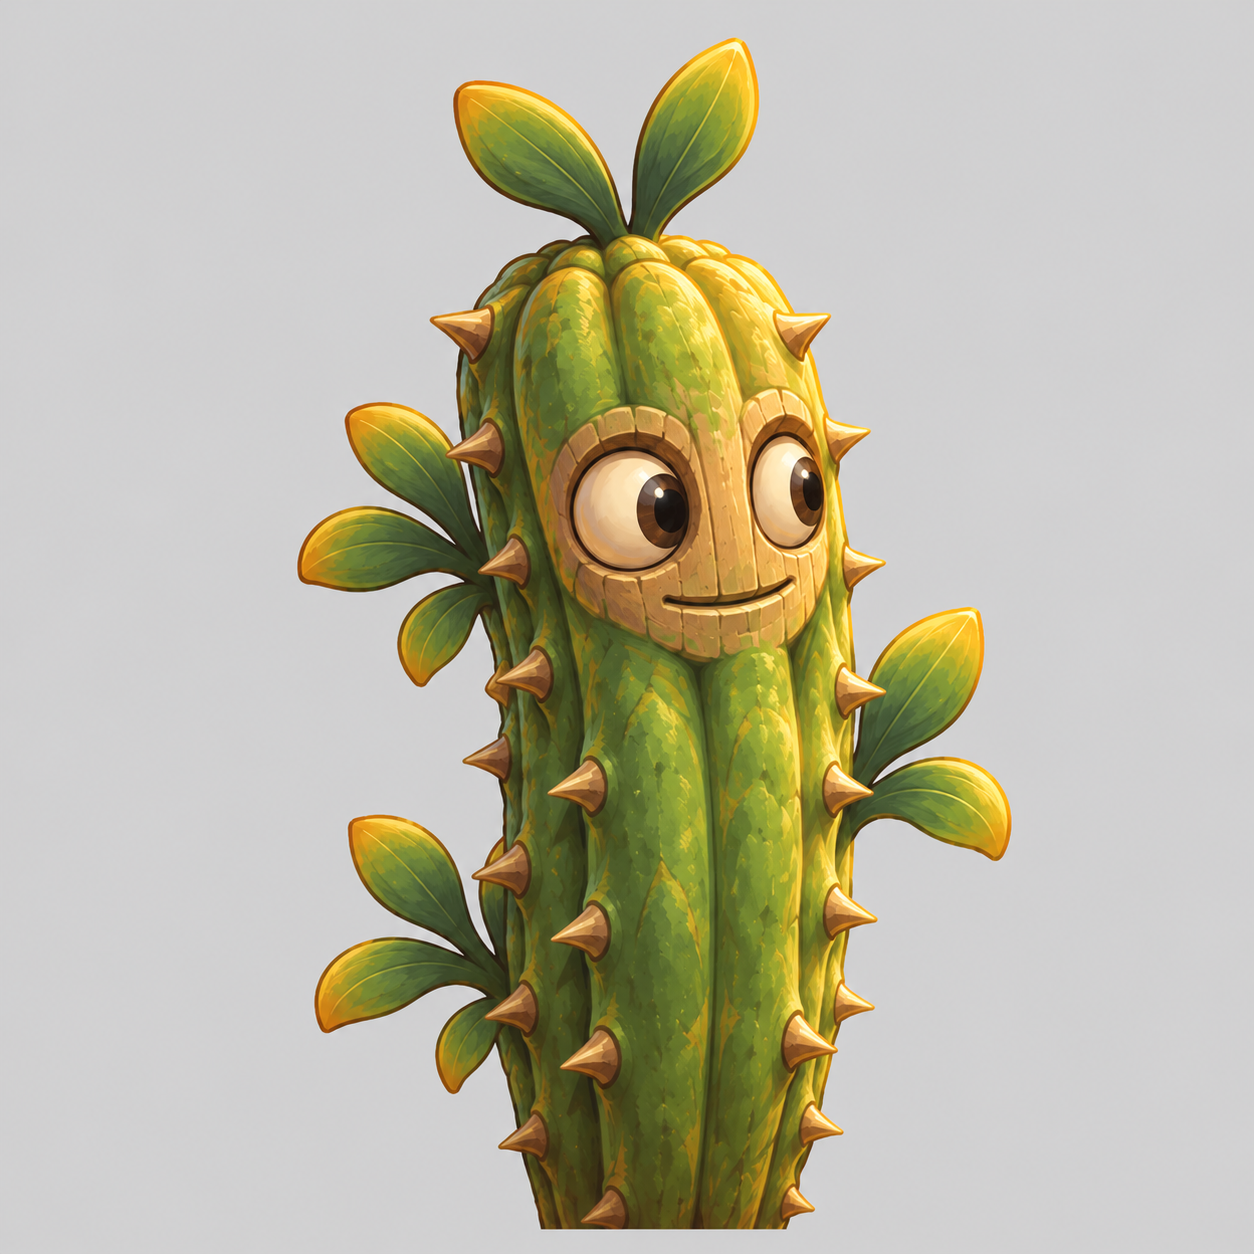
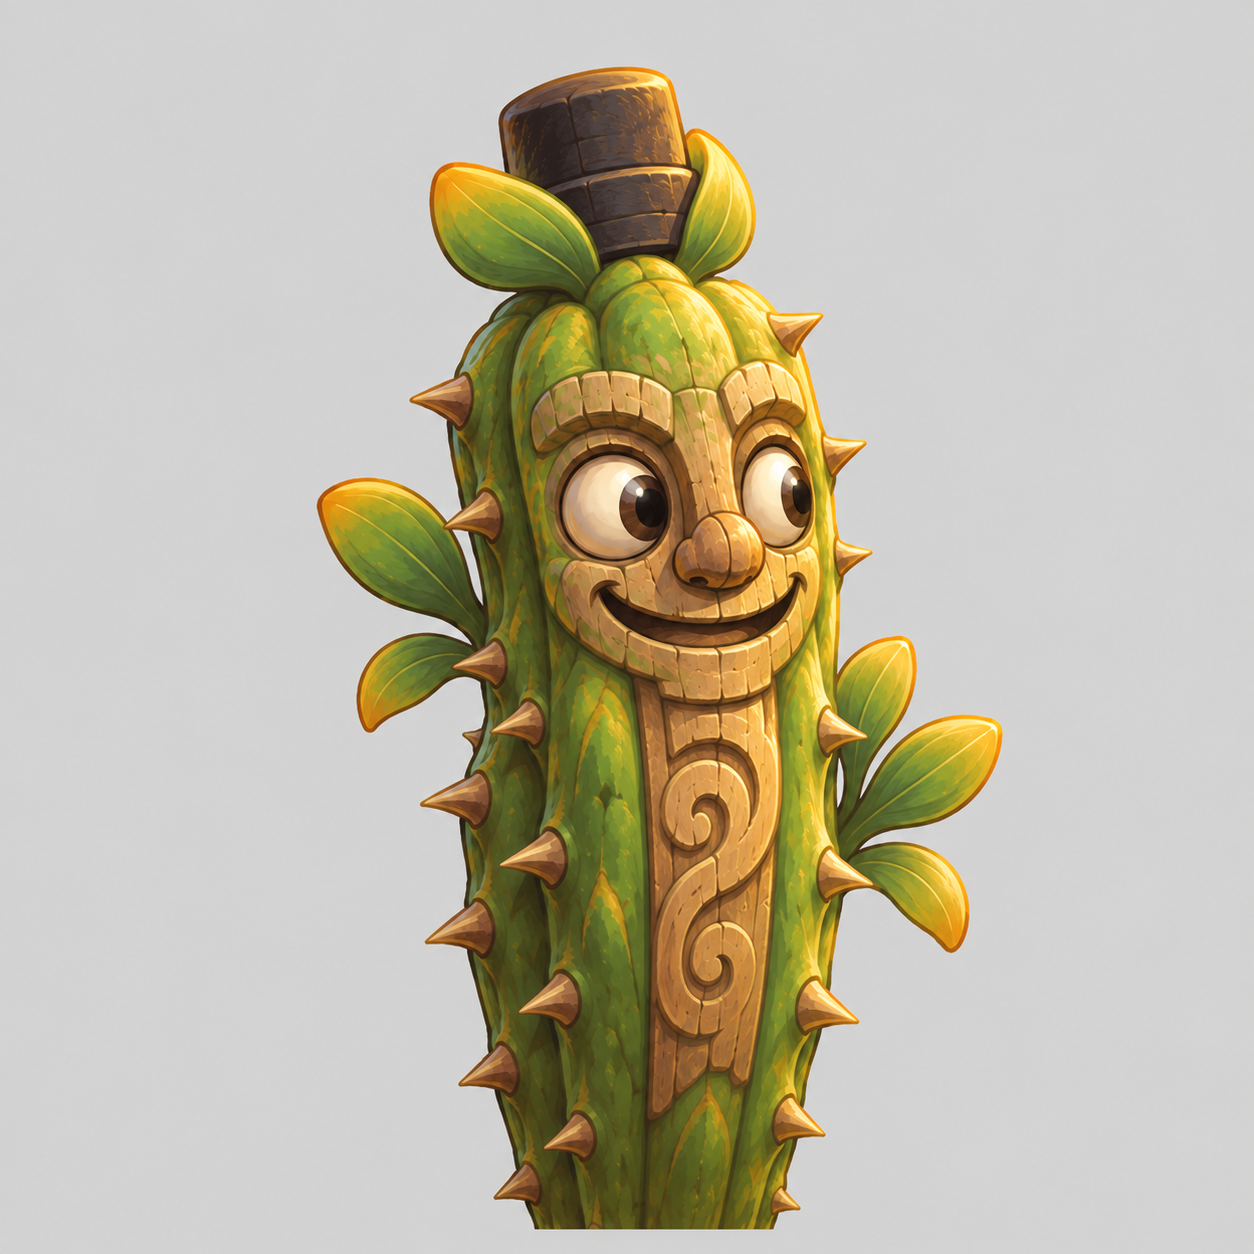
번개 창 안 듦 풀 → 대지(전기가 땅으로 빠짐) · 물방울 아이콘 위 뾰족 아래 둥글게 · 닌자바인 · 장승캑터 자람 셋째 판(복면 남김 + 머리띠 · 갓 싹 + 띠 반쯤) (사용자 '풀과 번개는 중립 · 번개는 땅한테 약함' · '물방울 젖음 아이콘이 똥 모양' · '너가 지적한 부분이 문제야')

Changed region(s): [[0.2177, 0.0311, 0.8086, 0.9952]]

diff --git a/v2/src/battle/matchup.js b/v2/src/battle/matchup.js
@@ -13,7 +13,7 @@ export const WEAPON_TYPES = {
   hammer: { name: '망치', strong: ['ice', 'earth'], resist: ['water'] },          // 얼음을 깸 · 바위를 부숨 / 쳐도 갈라졌다 다시 붙음
   gun: { name: '총', strong: ['fire'], resist: ['wind', 'water'] },               // 불길에 다가가지 않고 멀리서 / 바람에 빗나감 · 물속에선 느려짐
   flamer: { name: '화염방사', strong: [], resist: ['fire', 'water'] },            // 불 속성이 이미 풀 · 빙결 · 바람에 셈(×1.5) / 불 식물은 안 탐 · 물에 꺼짐 — 2026-10-17 사용자 "새로 추가한 무기도 상성을 고민해줘": 빙결 셈(속성과 겹쳐 ×1.875) · 바람 안 듦(불 > 바람과 부딪힘) 뺌
-  spear: { name: '번개 창', strong: ['water'], resist: ['grass'] },               // 전기 작살 / 덤불에 창끝이 걸림(번개 무기 = 물에 안 듦 없음)
+  spear: { name: '번개 창', strong: ['water'], resist: ['earth'] },               // 전기 작살 / 전기가 땅으로 빠짐(번개 무기 = 물에 안 듦 없음) — 2026-10-17 사용자 "풀과 번개는 중립 · 번개는 땅한테 약함으로"(풀 안 듦은 '번개 > 풀'과 부딪혀 뺌)
   rocket: { name: '로켓포', strong: ['earth'], resist: ['water', 'wind'] },       // 폭발이 흙더미 · 바위를 날려 버림 / 물에선 안 터짐 · 바람에 휨(사용자 "광역으로 로켓포")
   xbow: { name: '석궁', strong: ['wind', 'bolt'], resist: ['water', 'earth'] },   // 무거운 화살이 바람을 뚫음 · 나무 화살이라 감전 걱정 없이 멀리서(번개 = 무기 변이의 천적에 맞설 카드) / 물에 막힘 · 바위에 튕김(사용자 "석궁도")
 };

diff --git a/v2/src/art/icons.js b/v2/src/art/icons.js
@@ -169,18 +169,18 @@ export const ICON_SRC = {
     '.orfyyyfro.',
     '..ooooooo..',
   ],
-  water: [
+  water: [   // 물방울: 위 뾰족 · 아래 둥글게(2026-10-17 사용자 "물방울 젖음 아이콘이 똥 모양이야 — 더 물방울처럼" · 옛 판은 아래가 넓고 평평했음)
     '.....o.....',
     '....oBo....',
-    '....oBo....',
     '...oBbbo...',
-    '..oBbbbbo..',
+    '...oBbbo...',
+    '..oBwbbbo..',
     '.oBwbbbbbo.',
-    '.oBwbbbbno.',
-    'oBbbbbbbbno',
-    'oBbbbbbbnno',
-    '.onbbbbnno.',
-    '..ooooooo..',
+    '.oBwbbbbbo.',
+    '.oBbbbbbno.',
+    '.oBbbbbbno.',
+    '..onbbbno..',
+    '...ooooo...',
   ],
   grass: [
     '........ooo',

diff --git a/tools/pixel/big/concept/stages_raw2/TEEN2_PROMPT.md b/tools/pixel/big/concept/stages_raw2/TEEN2_PROMPT.md
@@ -1,0 +1,23 @@
+(2026-10-17 사용자 "그림 다시 그려줘 너가 지적한 부분이 문제야" → 닌자바인 · 장승캑터 자람 셋째 판. 둘째 판(stages_raw2/v2/)에서 지적한 것: 닌자바인 = 어린 모습엔 복면이 있는데 자람엔 없어 복면이 사라졌다 다시 생김 · 장승캑터 = 자람이 어린 모습과 거의 같음(모자 없음 · 웃는 얼굴 · 비슷한 몸). 첫 판(stages_raw2/v1/) = 성체와 거의 같아 반려. 목표 = 어린 · 성체 둘 다와 분명히 다른 가운데 모습.
+ 결과 → `node tools/pixel/big/greycut.mjs stages_raw2/<키>_teen.png stages/<키>_teen.png --main`.)
+
+Task: redraw ONLY the TEEN (middle) evolution stage of the 2 plant creatures below. For each creature, open only these two images and no other image file: its YOUNG C:\dev\pulloseum\tools\pixel\big\concept\stages_raw2\<key>_young.png and its ADULT C:\dev\pulloseum\tools\pixel\big\concept\new9\<key>.png. Study both carefully first: the new TEEN must sit clearly BETWEEN them - it must look clearly different from the young AND clearly different from the adult, while obviously the same creature family (same colors, materials, eye style). Do not open any old teen image.
+
+Two earlier attempts failed: the first teen looked almost the same as the adult, the second teen looked almost the same as the young (or dropped a feature the young already had). So: keep every feature the young already has (a feature must never disappear and come back later), grow the body into new proportions, and let the adult's signature parts begin to appear only partly - smaller, simpler or unfinished.
+
+Same drawing rules as the adult and young:
+- Camera: view from the front and slightly above (about 25 degrees down), like a plant in a flower pot seen by someone standing in front of it - not from below.
+- Pose and gaze: the body faces the front, but the head is turned slightly (about 20 degrees) to one side and the eyes look naturally toward that side - it does not stare into the camera. A relaxed, characterful stance with slight asymmetry.
+- Bold, readable shapes; taller than wide; the lower stem narrows to about one third of the image width where it meets the soil line at the very bottom, so it fits in a small pot. Keep every part attached to the body - no separate floating effect lines, swirls or particles.
+- Eyes clearly visible and big enough to survive at pixel size. Never glowing eyes in dark holes, no eyebrows, no fangs.
+- Full, high-detail painterly illustration quality: warm rim light from above, soft gradients, hue-shifted shading (cool shadows, warm highlights). No pure black, no neon overload.
+- Plain flat light grey background (#d9d9d9) filling the whole image, no gradient, no texture. No flower pot, no soil, no ground shadow, no props on the ground. The base of the creature ends cleanly at a flat soil line at the bottom, as if it grows out of soil that is not drawn.
+- Full body, centered, filling most of the frame. Height about 80 to 85 percent of the adult's. Square image about 1024x1024 (or 1254x1254), no text, no labels, no watermark, no frame.
+
+Creatures (key - what the young has / what the adult has / the new TEEN):
+
+1. ninja_vine - young = a small vine sprout with a dark leaf hood, a navy cloth mask over the lower face and a tiny red scarf leaf. Adult = a tall vine ninja: navy mask wrapping the face, a long red scarf trailing far to one side, two four-pointed shuriken leaves in its vine hands. NEW TEEN = a ninja trainee: KEEP the navy cloth mask over the lower face exactly like the young (only the eyes visible above it) and KEEP the leaf hood. The body has grown into one taller twisted vine with two thin vine arms (the young had no real arms), and a red training headband is now tied around the hood with two short tails. The red scarf is a little longer than the young's but still short (no long trailing scarf). NO shuriken: instead it holds one small plain pointed leaf like a practice dart in one vine hand. Eyes eager and focused.
+
+2. jangseung_cactus - young = a small green cactus with two leaves sprouting on top, a lightly carved smiling face and a carved spiral on its body. Adult = a tall village-guardian totem cactus: a tall black scholar's hat with a wide brim, a deeply carved face with big bulging eyes and a wide grin, one vertical carved band down the body, leafy sprigs at the sides. NEW TEEN = a guardian half carved: clearly taller and wider than the young, with broader shoulders. KEEP the carved spiral of the young, but it is now larger and has begun to stretch downward into the start of the vertical carved band (the band reaches only halfway down the body). The face carving is deeper than the young's: big round eyes and a half-open grin that is not yet as wide as the adult's. On top, the young's two leaves are now wrapped around a small dark round cap bud - the first beginning of the hat: a short dark cylinder about one third the height of the adult's hat, with NO brim yet. Small leafy sprigs at the sides.
+
+Save each as C:\dev\pulloseum\tools\pixel\big\concept\stages_raw2\<key>_teen.png. If the image tool saves elsewhere, copy it there with that name. If a file with that name already exists, skip it. Generate each image only once, no redraws. Do not create, modify or delete any other file, do not commit. When done, reply with the list of saved files.

diff --git a/docs/superpowers/specs/2026-10-17-v2-mutation-matchup.md b/docs/superpowers/specs/2026-10-17-v2-mutation-matchup.md
@@ -27,13 +27,13 @@
 | 망치(내려치기) | 쇠망치 내려치기 | 빙결(얼음을 깸) · 대지(바위를 부숨) | 물(쳐도 갈라졌다 다시 붙음) |
 | 총(쏘기) | 가시 탄환 | 불(불길에 다가가지 않고 멀리서 쏨) | 바람(바람에 빗나감) · 물(물속에선 탄환이 느려짐) |
 | 화염방사(새) | 화염 방사(새 무기 카드 — 불 · 멀리 · 여럿 · 화상) | —(불 속성이 이미 풀 · 빙결 · 바람에 ×1.5) | 불(불 식물은 안 탐) · 물(불이 꺼짐) |
-| 창(번개) | 번개 창(번개) | 물(전기 작살) | 풀(덤불에 창끝이 걸림) |
+| 창(번개) | 번개 창(번개) | 물(전기 작살) | 대지(전기가 땅으로 빠짐 — 2026-10-17 사용자 "풀과 번개는 중립 · 번개는 땅한테 약함으로", 옛 '풀 안 듦'은 '번개 > 풀'과 부딪혀 뺌) |
 | 로켓포(새 · 여럿) | 로켓포(새 무기 카드 — 멀리 · 여럿 · 60 × 한 번) | 대지(폭발이 흙더미 · 바위를 날려 버림) | 물(물에선 안 터짐) · 바람(바람에 휨) |
 | 석궁(새) | 석궁(새 무기 카드 — 멀리 · 85 × 두 번) | 바람(무거운 화살이 바람을 뚫음) · 번개(나무 화살 — 감전 걱정 없이 멀리서) | 물(물에 막힘) · 대지(바위에 튕김) |
 - 로켓포 · 석궁 = 사용자 "무기에 광역으로 로켓포도 넣고 석궁도 넣자"(같은 날). 총이 바람에 약한 자리를 석궁이 메움.
 - **새 무기 상성 다시(같은 날 사용자 "새로 추가한 무기도 상성을 고민해줘"):** ① 화염 방사는 불 속성이라 이미 풀 · 빙결 · 바람에 ×1.5 → 무기 종류 셈 '빙결'을 빼고(얹으면 ×1.875로 얼음 식물만 크게 손해), '바람 안 듦'도 뺌(속성 '불 > 바람'과 부딪혀 화면에 '효과 굉장!' · '안 듦'이 같이 떴음) → 안 듦 = 불 · 물. ② 석궁에 번개 셈 — 번개는 무기 변이의 천적(무기 ← 번개 ×1.25)인데 무기 카드 중 번개에 센 게 없었음. ③ 로켓포는 그대로(대지 셈 · 물 · 바람 안 듦). ④ 화면: '안 듦'은 다 곱한 값이 1보다 작을 때만.
-- 아직 남은 부딪힘(제안만 · 사용자 결정 전): 번개 창 '풀 안 듦'도 속성 '번개 > 풀'과 부딪힘(×1.5 × 0.8 = 1.2). 바꾼다면 안 듦 = 대지(전기가 땅으로 빠짐 — 대지가 번개를 막는 흔한 그림).
-- 무기 종류별 속성 셈 · 안 듦 수(바꾼 뒤): 불 셈 1(총) · 안 듦 1(화염) / 물 셈 1(창) · 안 듦 6 / 풀 셈 1(칼) · 안 듦 1(창) / 대지 셈 2(망치 · 로켓) · 안 듦 2(칼 · 석궁) / 바람 셈 1(석궁) · 안 듦 2(총 · 로켓) / 번개 셈 1(석궁) · 안 듦 0 / 빙결 셈 1(망치) · 안 듦 0.
+- 번개 창 '풀 안 듦' → '대지 안 듦'(사용자 결정, 같은 날). 무기 종류의 셈 · 안 듦이 속성표와 부딪히는 곳은 이제 없음.
+- 무기 종류별 속성 셈 · 안 듦 수(바꾼 뒤): 불 셈 1(총) · 안 듦 1(화염) / 물 셈 1(창) · 안 듦 6 / 풀 셈 1(칼) · 안 듦 0 / 대지 셈 2(망치 · 로켓) · 안 듦 3(칼 · 석궁 · 창) / 바람 셈 1(석궁) · 안 듦 2(총 · 로켓) / 번개 셈 1(석궁) · 안 듦 0 / 빙결 셈 1(망치) · 안 듦 0.
 - 번개 무기는 물에 안 듦이 없음(사용자 "번개 속성의 무기는 다른 걸로"). 속성 배율과 곱함(달군 칼날 → 풀 = 불 1.5 × 칼 1.25).
 
 ### 속성마다 이기는 수 − 지는 수(지금 속성표 + ㉯ 안 3, 무기 종류 빼고)

diff --git a/docs/CHANGELOG.md b/docs/CHANGELOG.md
@@ -2,6 +2,12 @@
 
 > CLAUDE.md에서 분리한 전체 개발 로그. 최신 작업이 맨 위. 과거 맥락이 필요할 때만 읽으세요.
 
+### 2026-10-17 (50) — 번개 창 상성 · 물방울 아이콘 · 상태창 · 체력 칸 선 · 닌자바인 · 장승캑터 자람 셋째 판
+- **번개 창(사용자 "풀과 번개는 중립 · 번개는 땅한테 약함으로"):** 안 듦 풀 → 대지(전기가 땅으로 빠짐). 시험 matchup에 줄 더함.
+- **물방울(사용자 "물방울 젖음 아이콘이 똥 모양이야 — 더 물방울처럼"):** `icons.js water` — 아래가 넓고 평평했던 덩어리 → 위 뾰족 · 아래 둥근 물방울(1 · 3 · 5 · 5 · 7 · 9 · 9 · 9 · 9 · 7 · 5칸). 젖음 효과와 물 속성 표시가 같이 바뀜.
+- **상태창 · 체력(사용자 "해 아이콘이 상태창 아래로 삐져나옴 — 상태창 크기를 키워볼까?" · "체력바에도 얇은 칸 선"):** 상태창 아래 3칸(내 창 46 → 49 · 상대 59 → 62), 체력 막대 10%마다 가는 칸 선.
+- **자람 셋째 판(사용자 "그림 다시 그려줘 너가 지적한 부분이 문제야"):** 둘째 판 지적 = 닌자바인 자람에 어린 모습의 복면이 없음 · 장승캑터 자람이 어린 모습과 거의 같음 → `stages_raw2/TEEN2_PROMPT.md`(어린 모습에 있던 건 남기고, 성체 상징은 반만 — 닌자 = 복면 + 수련 머리띠 + 연습용 잎 하나 · 장승 = 소용돌이가 세로 띠로 반쯤 · 반쯤 벌린 웃음 · 갓 싹(챙 없는 짧은 원통)). 둘째 판 = `stages_raw2/v2/`.
+
 ### 2026-10-17 (49) — 턴 시작 카드 공개 + 선공 · 후공 · 변이 카드 각진 테 · 비용 = 해 · MP = 햇빛 에너지 · 기술 그림 96장
 - **카드 공개(사용자 "스킬 카드가 나와 상대 거가 회전하듯 등장해서 보여주고 그다음 진행" · "선공 후공도 빠르고 작게 넘어가서 가독성 떨어지는데 확실히 연출"):** `battle.js buildSteps` 맨 앞 'reveal'(2.3초 · 카드 하나면 1.4초) — 내 카드 = 손패 자리에서, 상대 카드 = 상대 식물에서 엎어진 채(`skillcard.js renderDown` — 은빛 테 · 금빛 마름모 · 씨앗) 가운데로 → 상대 카드 원근 뒤집기(drawFlip) → 선공 = 금빛 테 + 큰 '선공' 표(튀어나옴) · 후공 = 남색 작은 표 → 각자 식물로 줄어들며 사라짐 → 공격. 옛 '먼저!'(0.75초)는 공개가 대신함, 낸 카드는 턴 연출 동안 손패에서 빈 자리. 검토 촬영 `?reveal=ms[&first=me|foe]`(v2shots 08_battle_reveal_*).
 - **카드(사용자 "변이스킬이나 그 외 스킬 카드 테두리 차이" · "카드 왼쪽 상단 mp 소모량 숫자가 너무 작아 · 그 아이콘을 해 모양으로"):** 변이 카드 = 모서리를 자른 각진 테 + 모서리 징 + 테 위 가운데 변이 깃발 + 변이 색 이름 띠(둥근 테인 다른 카드와 한눈에). 비용 = 해(`sunDisc` · 금빛 / 모자라면 주황빛 빨강 / 못 쓰면 회색) + 숫자 bold 11 → value 13, 변이 횟수 다이얼도 같이 키움.
